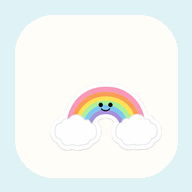
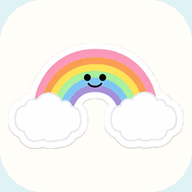
틈 메우기 · 칸 지우기 · 앱 아이콘 크게 · 스티커 옮기기 (아직 안 올림)

diff --git a/sw.js b/sw.js
@@ -1,6 +1,6 @@
 // 앱은 저장해 둔 것으로 바로 연다. 앱 본체(html · json)는 뒤에서 새로 받아 두었다가 다음에 열 때 쓴다 (기다리지 않음).
 // 그림 · 소리 · 목소리 · 글꼴은 한 번 받으면 저장본을 쓴다. 판 번호(V)는 build.py 가 올릴 때마다 바꾼다 → 새 판이 깔리면서 본체를 미리 받아 둔다.
-const V='kk-20261022170033';
+const V='kk-20261022170310';
 const CORE=['./','index.html','tales/tales.json','tales/cats.json','manifest.webmanifest','icon-192.png'];
 self.addEventListener('install',e=>{self.skipWaiting();e.waitUntil(caches.open(V).then(c=>c.addAll(CORE.map(u=>new Request(u,{cache:'reload'})))).catch(()=>{}))});
 self.addEventListener('activate',e=>{e.waitUntil(caches.keys().then(ks=>Promise.all(ks.filter(k=>k!==V).map(k=>caches.delete(k)))).then(()=>self.clients.claim()))});
